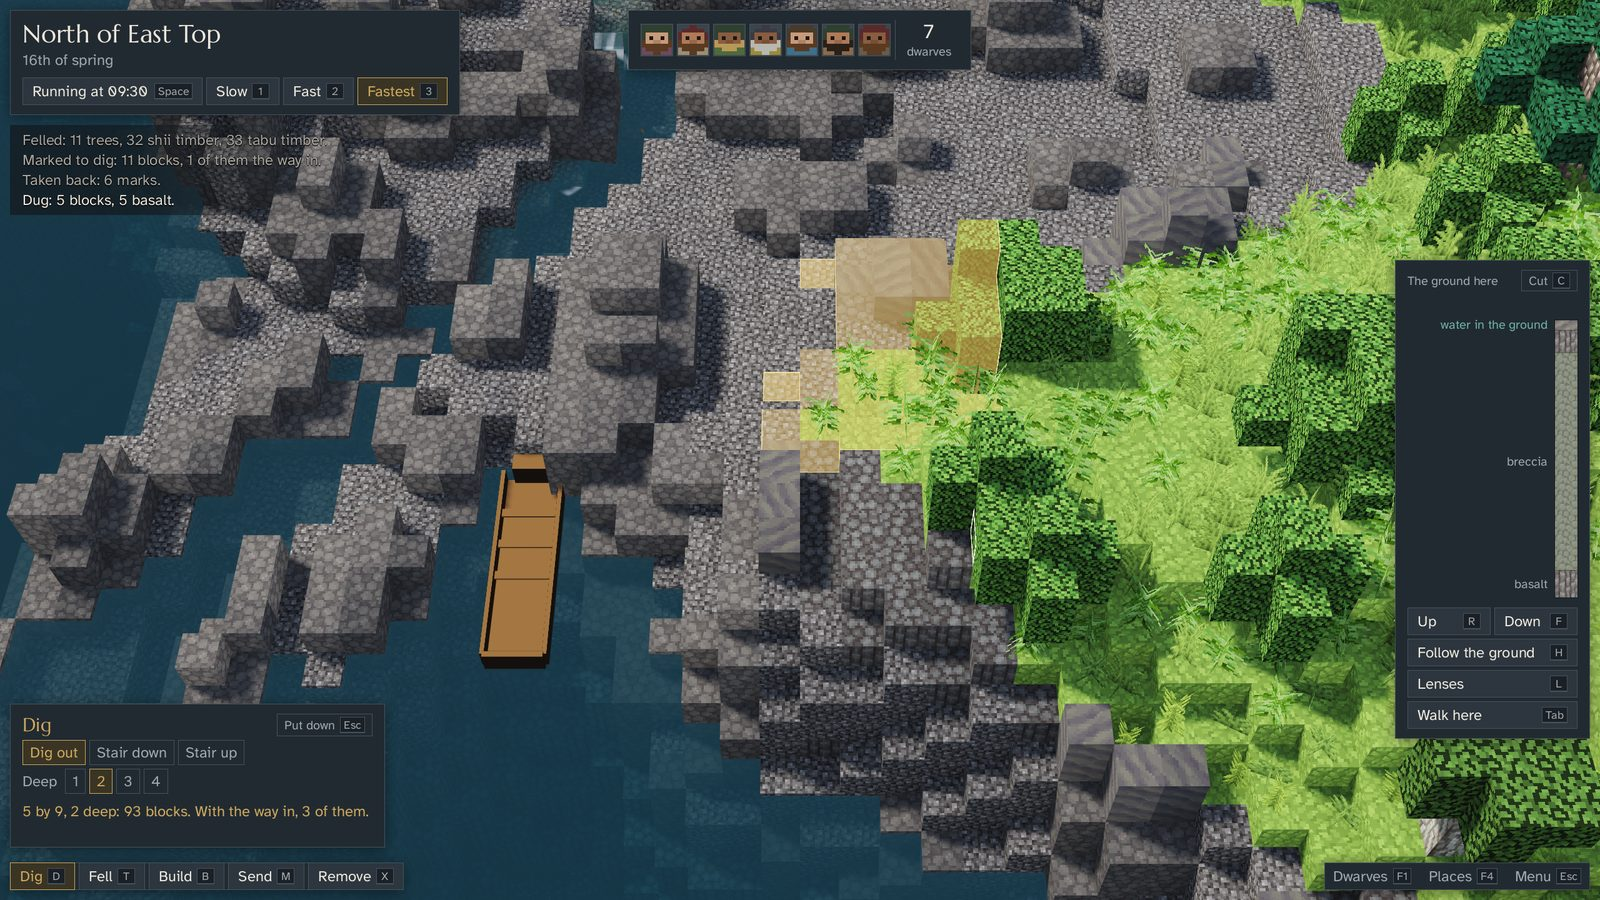
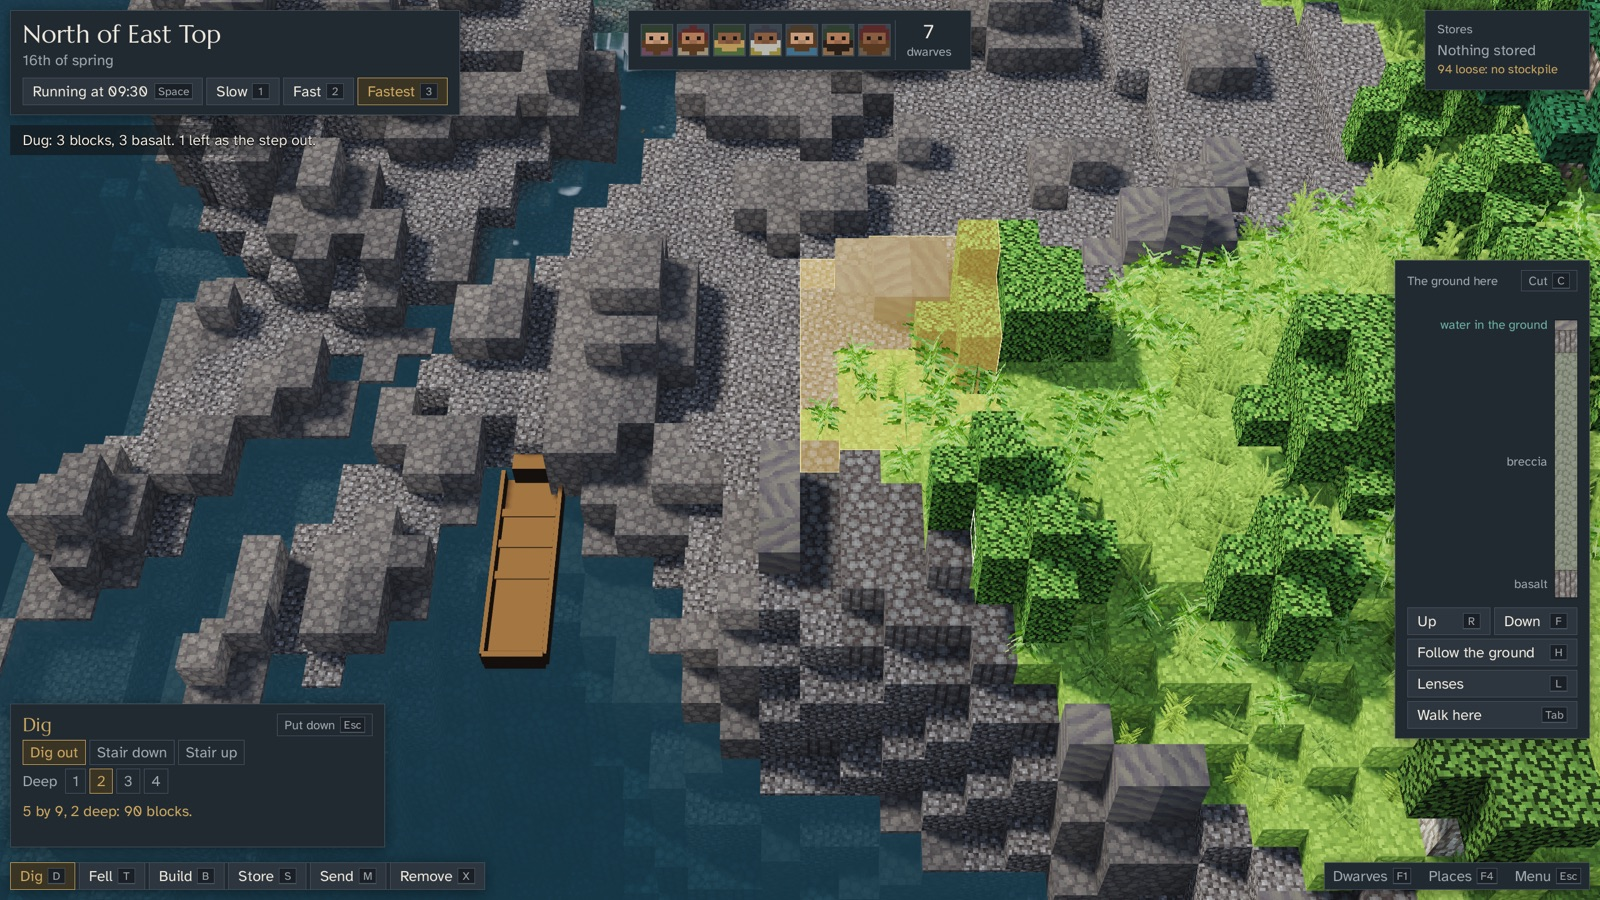
A dig marks what was dragged and no block besides, and leaves the last step out of its pit
For the player: the Dig tool no longer adds a line of blocks joining what is under the pointer
to ground already dug, and an order no longer digs a stair from the surface to a room marked
below. A room nothing leads to waits; an alert says no dwarf has a way to it, and each idle
dwarf says so. A pit is dug to its last step, which is left standing so that nobody is shut
in and the rest of the pit can be reached: 'Dug: 9 blocks, 8 basalt. 1 left as the step out.'
No block is dug from under a dwarf walking over it.

Checked by playing docs/interesting-world/real/play/p3-play.txt whole (no dwarf falls or is
shut in; a pit, a room dug into a hillside, and a room inside the hill with no way to it, each
looked at), by replaying from the game's own log the orders that trapped three dwarves on the
way to this rule, by the hillside room headless at six start times (89 of 90 dug each time),
odin check -vet-unused and ./build.sh test. The dwarves' log changes on purpose to
698fc3b965110ddf, the same three ways; the land is unchanged.

diff --git a/docs/plan.md b/docs/plan.md
@@ -616,7 +616,7 @@ Pictures, each 2,560 × 1,440: `interesting-world/real/crowd-*.jpg`. `crowd-besi
 
 P3 was merged unplayed, and the owner, playing it, called it terrible (`open-decisions.md`, 2026-11-16). This section says what is true after it was put right. The first part of the work (A) made what existed right and is written here; the second (B) gives goods a place and is noted at the section's end. What P3 first was is in this file's history.
 
-**What can now happen that could not before:** the owner drags a rectangle over a hillside and a room is dug under it, while watching, with its own way in; clicks any part of a tree, or drags over a wood, and has timber; builds a wall of sawn timber that is a wall; and is shown, before letting go, exactly what will be marked.
+**What can now happen that could not before:** the owner drags a rectangle over a hillside and a room is dug under it, while watching (with its own way in, until that was withdrawn); clicks any part of a tree, or drags over a wood, and has timber; builds a wall of sawn timber that is a wall; and is shown, before letting go, exactly what will be marked.
 
 **What the owner does and sees.** From above, the orders stand at the bottom left: **Dig (D), Fell (T), Build (B), Send (M), Remove (X)**. Taking one puts its tool in the hand: its name, its few choices as buttons, and one live line. Under the pointer the world shows what a click would mark, and through a drag what the drag would; letting go gives the order. Marked ground is tinted brass, and the ground over it faintly where it lies under a hill; a tree to fell wears a brass band and a brass cap on its crown; a block to lay stands as a small block of what it will be. The dwarves go to it at once and work. A click on marked ground shows the order's short card: what is left, who is at it, what it waits for, Go there, Take it back. A click on anything else says what it is in one line; its card is asked for with I, with More, or with a second click.
 
@@ -624,7 +624,7 @@ P3 was merged unplayed, and the owner, playing it, called it terrible (`open-dec
 
 | Order | The drag | What it leaves |
 |---|---|---|
-| **Dig out**, 1 to 4 deep | A rectangle on the level of the block the press took | Every block of ground in it gone, from that level down: into a hillside a room under the hill, on flat ground a pit. With it, where it needs one, the way in and out |
+| **Dig out**, 1 to 4 deep | A rectangle on the level of the block the press took | Every block of ground in it gone, from that level down: into a hillside a room under the hill, on flat ground a pit, less the last step out of it. Nothing outside the rectangle is marked (the way in it once added is withdrawn, 2026-11-16) |
 | **Stair down**, **Stair up** | A line; a click is three steps the way the view faces | A block down, or up, for each block along, with room over each step to walk it |
 | **Fell** | A rectangle on the ground, read through leaf and limb; a click on any part of a tree | Every tree whose trunk stands in it felled; its timber in the store |
 | **Wall**, 1 or 2 high | A line | A wall standing on the ground along the line, following it where it steps, of stone or of timber |
@@ -670,7 +670,7 @@ An orders file says them as `dig out`, `dig stair-down`, `dig stair-up`, `fell`,
 | Fell: a drag across a stand on a slope, 16 m down to 2 m, from above at a tilt | The box ran between two crowns and went vertical | Eleven trees marked, each with a brass cap on its crown, and felled in 52 s, 9 s at the fastest speed | [drag](interesting-world/real/play/p3-03-fell-drag.jpg), [marked](interesting-world/real/play/p3-04-fell-marked.jpg), [felled](interesting-world/real/play/p3-05-fell-done.jpg) |
 | Dig out: a drag on flat ground; the order's card; part taken back | "A room", two blocks whatever was meant; Remove took the whole order | 3 by 2, 2 deep: 11 blocks, one of them the step out. The card is three lines. Remove takes six marks back and the five left are dug in 27 s | [hover](interesting-world/real/play/p3-06-dig-hover.jpg), [drag](interesting-world/real/play/p3-07-dig-flat-drag.jpg), [card](interesting-world/real/play/p3-08-order-card.jpg), [remove](interesting-world/real/play/p3-09-remove-drag.jpg), [dug](interesting-world/real/play/p3-10-dig-flat-done.jpg) |
 | Dig out: a drag from the foot of a rise into the hillside | The box climbed the hill with the pointer | A flat rectangle, 5 by 9: 93 blocks under the hill, 3 of them the way in, the ground over it tinted. Dug in 97 s, 16 s at the fastest | [drag](interesting-world/real/play/p3-11-dig-hill-drag.jpg), [marked](interesting-world/real/play/p3-12-dig-hill-marked.jpg), [dug, cut open](interesting-world/real/play/p3-13-dig-hill-done-cut.jpg) |
-| Dig out: at a cut level, a room inside the hill | "No dwarf can reach" it: reproduced, seven idle over it | 5 by 4: 43 blocks, 3 of them the way in, shown before the button is let go. Dug in 65 s | [hover](interesting-world/real/play/p3-14-dig-inside-hover.jpg), [drag](interesting-world/real/play/p3-15-dig-inside-drag.jpg), [marked](interesting-world/real/play/p3-16-dig-inside-marked.jpg), [dug](interesting-world/real/play/p3-17-dig-inside-done.jpg) |
+| Dig out: at a cut level, a room inside the hill | "No dwarf can reach" it: reproduced, seven idle over it | 5 by 4: 43 blocks, 3 of them the way in, shown before the button is let go. Dug in 65 s | [hover](interesting-world/real/play/p3-14-dig-inside-hover.jpg), [drag](interesting-world/real/play/p3-15-dig-inside-drag.jpg), [marked](interesting-world/real/play/p3-16-dig-inside-marked.jpg), [since, with no way in made for it: it waits and says so](interesting-world/real/play/p3-17-dig-inside-waits.jpg) |
 | Build: a timber wall, a stone wall, two timber blocks side by side | The timber wall was a tree's trunk, and two logs grew moss | Sawn boards and basalt, built in 43 s; no moss, no rings, no leaves | [drag](interesting-world/real/play/p3-18-build-timber-drag.jpg), [from above](interesting-world/real/play/p3-19-walls-above.jpg), [on foot](interesting-world/real/play/p3-20-walls-afoot.jpg) |
 | Dig: a stair down, then marks beside and above it with the dwarves in and about it | "No dwarf can reach three orders" | Four steps dug in 22 s; the marks beside it dug in 9 s | [drag](interesting-world/real/play/p3-21-stair-drag.jpg), [dug](interesting-world/real/play/p3-22-stair-done.jpg), [marked beside](interesting-world/real/play/p3-23-beside-marked.jpg), [dug](interesting-world/real/play/p3-24-beside-done.jpg) |
 | The cut over a pit with the party in it: over their heads, at their chests, at their feet | Heads and bodies cut off | Whole at every level that leaves their feet under it; at their feet, gone | [no cut](interesting-world/real/play/p3-25-pit-whole.jpg), [over heads](interesting-world/real/play/p3-26-cut-over-heads.jpg), [at chests](interesting-world/real/play/p3-27-cut-at-chests.jpg), [at feet](interesting-world/real/play/p3-28-cut-at-feet.jpg) |
@@ -735,7 +735,7 @@ An orders file says a stockpile as `store all|stone|timber x y z x y z`.
 
 - **Hands at one face.** The real games' answer is that friends do not block: RimWorld's pawns and Ingnomia's gnomes pass through one another. So a dwarf now takes up a floor only where it stands still, and a walker goes by whoever is on its way; it still goes round a stander where there is room, and no two come to rest on one floor. The room of 93 blocks, given at six different moments, took 97 to 215 s before and takes 75 to 98 s now. P2's stepping round and squeezing past, which the owner asked for when dwarves stuck on each other, is gone: they can no longer stick.
 - **A stair's preview says how deep it goes**: a figure on the ground over each step, "-1" to "-4".
-- **A room marked deep gets its way in.** Where the search every way at once finds none within about ten blocks, a straight stair or passage is tried the four ways from each cell stood in, rising, level and falling, up to 64 blocks. Where none is found, the message, the mark and the order's card say: dig a stair or a passage to it first.
+- **A room marked deep gets its way in.** Where the search every way at once finds none within about ten blocks, a straight stair or passage is tried the four ways from each cell stood in, rising, level and falling, up to 64 blocks. Where none is found, the message, the mark and the order's card say: dig a stair or a passage to it first. *Withdrawn the same day, with every way in an order made for itself, on the owner's playing it: an order marks what was dragged and no block besides, a dig leaves the last step out of its pit standing, and work no dwarf can reach is said in an alert (`adr/0011`; `open-decisions.md`).*
 
 **Played** (`docs/interesting-world/real/play/goods-play.txt` and `goods-thirty.txt`; the pictures are beside them)
 

diff --git a/docs/adr/0011-orders-are-marks-on-ground-the-hold-keeps.md b/docs/adr/0011-orders-are-marks-on-ground-the-hold-keeps.md
@@ -20,7 +20,9 @@ A dwarf stands under a block and a half and steps one block. An order is named f
 
 A dwarf works what is beside it from a block under its feet to a block over its head, what is right over its head, and what is two down or two up in the next column where the block between is open. A mason lays from the lowest floor that reaches, so a wall is built from the ground beside it.
 
-**Every dig is given its way in and out** (`way_in`, `orders.odin`). From the cells a dwarf will stand in once the order is dug, a passage is searched outward through the ground, level or a step up or down, to the nearest open ground a dwarf can stand on today, and its blocks are marked with the order: a notch of steps in a pit's rim, a passage to a room marked inside a hill. Open ground is a floor joined to 150 others, so a shelf of a sea cliff beside the dig does not count. The way does not pass under leaves, through rock too hard for the picks, or end in water deeper than a dwarf wades. We chose this over P3's rule, which left a pit's last blocks standing as its stair and its order unfinished, and over a bare pit, which no game of this kind leaves (Ingnomia's hole makes ramps; Dwarf Fortress pairs stairs).
+**An order to dig marks what was dragged and no block besides** (the owner, 2026-11-16, on playing it: the way in the order added "doesn't make any sense", and it dug from the surface ground that was never marked). The way to a room is the player's to mark, a stair or a passage, as in Dwarf Fortress. Until part A's rule was withdrawn, every dig was given a way in and out, searched outward from it and marked with it; it joined marks to ground already dug by way of blocks the player had not chosen, and for a room marked deep it cut a stair from the surface. Blocks no floor reaches wait, an alert says no dwarf has a way to them, and each idle dwarf says so.
+
+**A dig leaves the last step out of what it digs** (`closes`, `orders.odin`). Without a way in of its own a pit two deep would be dug to its last block and whoever stood in it shut in, or, dug from the rim with nobody in it, left with no way down to the rest of the work. So a block a dwarf could stand on is not dug where that would take the way out from lower ground beside it, or turn the floor on it into a hole under it with no way out, or shut a dwarf in. It waits as the last step out of a pit, and an order with nothing else left is done and says how many blocks it left standing: "Dug: 9 blocks. 1 left as the step out." A stair dug into the pit frees them. A ledge left on a slope over the block is no pit. And no block is dug from under a dwarf walking over it (`trodden`): that is how one came to lie at the bottom of a pit.
 
 **What an order marks is one rule asked of two worlds** (`cells_of`, through `Blocks`): the hold asks its own ground when the order is obeyed, and the frame asks the blocks it draws, every frame, for what is under the pointer and through the drag. So what the player is shown is what will be marked, where the frame's blocks and the hold's agree.
 
@@ -50,7 +52,7 @@ A felled tree is not a block changed but a tree taken out: an edit in its trunk'
 - A block laid needs a block beside it and nothing under it. Nothing falls.
 - What the frame knows of the orders is in `Shown`: each order with work left, how many dwarves are at it and how many marks wait for each cause; the ground still to dig as the fewest boxes a sweep of its marks finds (`boxes_of`), which the terrain's shader tints, forty-eight a picture, with the ground over each faintly; and the trees and cells marked, drawn as boxes.
 - **Taking marks back is by column**: every mark in the columns dragged over, and no other. An order may be trimmed, and its end says what was done of it. Where no mark lies under it, Remove takes built blocks down, and with none of those takes ground out of a stockpile (ADR 0012).
-- **A way in is searched every way at once through about ten blocks of ground, and beyond that as a straight stair or passage** up to 64 blocks long, rising, level or falling, the four ways from each cell stood in: under flat ground a room sixty blocks down gets a stair as long as it is deep. Where neither finds one, the order says so on its mark and its card: dig a stair or a passage to it first.
+- **No way in is made for an order.** A room marked where nothing leads waits, and says so in an alert and on each idle dwarf; the search that cut one, and its stair from the surface, are withdrawn (above).
 - **Timber is laid as `Mat.Timber`**, a block of sawn boards that is no tree's. A tree's bark block laid by hand is still drawn as a trunk by the mesher's rule.
 - A dwarf at work keeps its place, and a walker goes by it (ADR 0012, "Friends do not block one another").
 - `./build.sh test` hashes the blocks the hold changed and its store as well as the log, as played and as played again from the orders.

diff --git a/docs/open-decisions.md b/docs/open-decisions.md
@@ -145,6 +145,19 @@ Background: `ideas.md` (the destination) and `lessons.md` (why earlier attempts 
   - Each play step comes with a script that plays it as a player would (the pointer on the tree's own log, a drag across a wood, the order given and watched to its end), drawn unseen, and Claude looks at every picture before merging.
   - One play step at a time. The interface step in flight (I-2) is held, not merged, until the orders are right.
 
+**2026-11-16, by the owner, playing after part B** (a picture at a cut level: a block under the pointer joined to the dug ground by a line of marks; "these connected lines dont make any sense right now, because i could already have an area marked and it still continues from the actually dug spots; just remove this"; and "somehow digging this section is making them dig from the surface, which i definitely did not mark")
+
+- **An order to dig marks what was dragged and no block besides.** The way in an order made for itself is removed, with its stair from the surface for a room marked deep. The way to a room is the player's to mark.
+
+**2026-11-16, Claude's call** (what follows from taking the way in out; `adr/0011`; played as `p3-play.txt`, cases 3 to 5, and from the game's own log of orders)
+
+- **A dig leaves the last step out of what it digs** (`closes`). With no way in of its own, a pit two deep trapped a dwarf the first time it was played, and dug from the rim it was left with no way down to the rest of its marks. A block a dwarf could stand on is not dug where that would take the way out from lower ground beside it, turn the floor on it into a hole with no way out, or shut a dwarf in. The order ends and says so: "Dug: 9 blocks, 8 basalt. 1 left as the step out." A stair dug into it frees the block. Chosen over finishing the pit and leaving it to the player to rescue whoever is in it.
+- **No block is dug from under a dwarf walking over it** (`trodden`), only from under none. Walkers were not counted as standing, and one fell two blocks into a pit.
+- **Two rules tried and thrown out on the way**, each found wanting by replaying the game's own log: counting pits before and after (a small closed hollow beside the block hid the room being closed), and refusing any floor that lost its way out (it took ledges on a slope for pits and stalled a room dug into a hillside).
+- **Work no dwarf can reach raises its alert only while no other order may yet open the way to it**, so a room marked behind one being dug does not cry out.
+- **The headless run says what the marks left wait for**, after its line on the orders.
+- *Asked of the owner:* **one block of a pit left standing as its step.** A pit marked 3 by 2 and 2 deep is dug to 9 of its 10 blocks. *Recommendation: keep it; the other honest choices are a pit that traps, or blocks added outside the mark.*
+
 **2026-11-16, by the owner, playing after part A** (a picture: the Fell tool on a trunk at 2670, 3, -1726 says "No tree here"; "clearly a tree")
 
 - **Fell takes every tree that stands**: the canopy's, the smaller ones between and under them, young growth in a gap, bushes, and the dead still standing. Only the fallen are left out. The fault: the order asked for trees as the far view does, which leaves out all but the canopy's and the ones between; the tree in the picture was young growth 11 m tall. Part A's played case pointed at a canopy tree and so passed. One rule now (`trees_standing`, `trees.odin`) is asked by the hold and by the frame.

diff --git a/AGENTS.md b/AGENTS.md
@@ -22,7 +22,7 @@ The longer working notes this file replaced are in the history of `CLAUDE.md` (n
 - Rules are rows on named fields (`FIELDS` in `fields.odin`). A new kind of condition becomes a new field, not code in a row.
 - A block is a `Mat`, 16 bits wherever it is kept. A rule asks what a material is through its traits (`TRAITS` in `gen.odin`, `is(m, LEAVES)`); never write a `bit_set[Mat]`, which holds no more than 128 materials.
 - What lives on an island is never a preference: a plant or animal is there because it could reach the island, the island can keep it, and the seed drew it. Give it a row that decides, and print why not.
-- The dwarves' world must stay deterministic (ADR 0009). Only the thread running it touches `Hold`. The frame sends it orders and reads `Shown`. It learns the ground from `gen.odin` and its own list of edits, never from the frame's `World`, the simulated water or a clock. Nothing in it may count on seven dwarves: the hold grows. A dwarf takes up its floor: whatever moves a dwarf to another floor does it through `take`, and whatever changes a block of the hold's ground does it through `walk_edit` and `ground_changed`, which tells the frame and settles the dwarves. Orders are marks the dwarves take themselves (ADR 0011): a kind of work is a row of `WORKS`, a reason a mark waits a row of `WAITS`, and a block that could shut a dwarf in is counted for before and after (`pockets`). What an order marks is one rule (`cells_of`) asked by the hold of its own ground and by the frame of the blocks it draws, so what is shown under the pointer is what will be marked. What work yields is a thing lying in a cell (`goods.odin`, ADR 0012): the hold has what lies in its stockpiles, a block is laid of a thing brought to it, and nothing is counted that cannot be seen. A dwarf takes up a floor only where it stands still; a walker goes by whoever is on its way.
+- The dwarves' world must stay deterministic (ADR 0009). Only the thread running it touches `Hold`. The frame sends it orders and reads `Shown`. It learns the ground from `gen.odin` and its own list of edits, never from the frame's `World`, the simulated water or a clock. Nothing in it may count on seven dwarves: the hold grows. A dwarf takes up its floor: whatever moves a dwarf to another floor does it through `take`, and whatever changes a block of the hold's ground does it through `walk_edit` and `ground_changed`, which tells the frame and settles the dwarves. Orders are marks the dwarves take themselves (ADR 0011): a kind of work is a row of `WORKS`, a reason a mark waits a row of `WAITS`, and an order marks what was dragged and no block besides, and a block that is the last step out of a pit, or that would shut a dwarf in, is left standing (`closes`, `pockets`). What an order marks is one rule (`cells_of`) asked by the hold of its own ground and by the frame of the blocks it draws, so what is shown under the pointer is what will be marked. What work yields is a thing lying in a cell (`goods.odin`, ADR 0012): the hold has what lies in its stockpiles, a block is laid of a thing brought to it, and nothing is counted that cannot be seen. A dwarf takes up a floor only where it stands still; a walker goes by whoever is on its way.
 - Keep it small. Prefer changing a rule to adding a system.
 
 ## Checking work

diff --git a/docs/foundations/interface.md b/docs/foundations/interface.md
@@ -288,12 +288,12 @@ The owner played P3 on 2026-11-16 and called it terrible (`../open-decisions.md`
 - **The hand has two states** (I2, above): a line, and the card asked for. The line is a block of the thing, its name, where it lies, and More with its key. A dwarf's short card is its picture, name, trade and age, what it is doing and what it waits for, with Follow, Keep and Put down; its tabs are the card's.
 - **A tool's card is its name, its choices and one live line**, and is as high whatever the line says. P3's card held three paragraphs and grew and shrank with what the pointer was on, so its buttons moved from under the pointer as it came to them: a click on a choice after a click on the world missed. Nothing on a card may move because the pointer moved.
 - **The choices are named for what the player gets.** Dig: Dig out, with how deep (1 to 4); Stair down; Stair up. Build: Wall, with how high (1 or 2); Floor; Stair up; of stone or timber, each with what is in store written on it. What each leaves is the tip on its button.
-- **The live line** says, with nothing pressed, what a click here would do ("Basalt: hard rock, 10 s a block. Here: 2 blocks."; "Tabu tree, 7 m: 3 timber."), and through a drag what the drag would ("5 by 9, 2 deep: 93 blocks. With the way in, 3 of them."). It is the hold's own rule asked of the blocks the frame draws.
+- **The live line** says, with nothing pressed, what a click here would do ("Basalt: hard rock, 10 s a block. Here: 2 blocks."; "Tabu tree, 7 m: 3 timber."), and through a drag what the drag would ("5 by 9, 2 deep: 90 blocks."; no block is added to what is dragged). It is the hold's own rule asked of the blocks the frame draws.
 - **A drag is flat.** It is a rectangle on the level of the block the press took, its far corner where the pointer's ray comes down on that level; a stair and a wall are lines. A tool takes the ground under the pointer through any leaf or limb, and a click on any part of a tree fells that tree.
 - **What is marked shows where the player looks**: the blocks to dig tinted, the ground over them tinted faintly where they lie under a hillside, a tree to fell with a brass band at its foot and a brass cap on its crown, which is what shows from above.
 - **An order's card is short**: what it is, how much is left and how many dwarves are at it, what it waits for, and Go there, Take it back, More.
 - **Remove trims**: it takes back the marks in the columns dragged over and no others, and says how many before the button is let go.
-- **Messages are one line.** "Marked to dig: 93 blocks, 3 of them the way in." "Dug: 93 blocks, 65 basalt." Who took up what, each tree felled and each arrival are the log's alone. They fade after eight seconds.
+- **Messages are one line.** "Marked to dig: 90 blocks." "Dug: 89 blocks, 61 basalt. 1 left as the step out." Who took up what, each tree felled and each arrival are the log's alone. They fade after eight seconds.
 - **The cut draws a dwarf whole or not at all** (ADR 0007): one whose feet stand under the level keeps its head, one standing at the level or over it is not drawn, and its picture at the top still leads to it.
 - **The clock's speeds are 1, 3 and 6 times**, the buttons' names as they were.
 - **The key I** asks for the card and shuts it. It is a row of `BINDS`.
